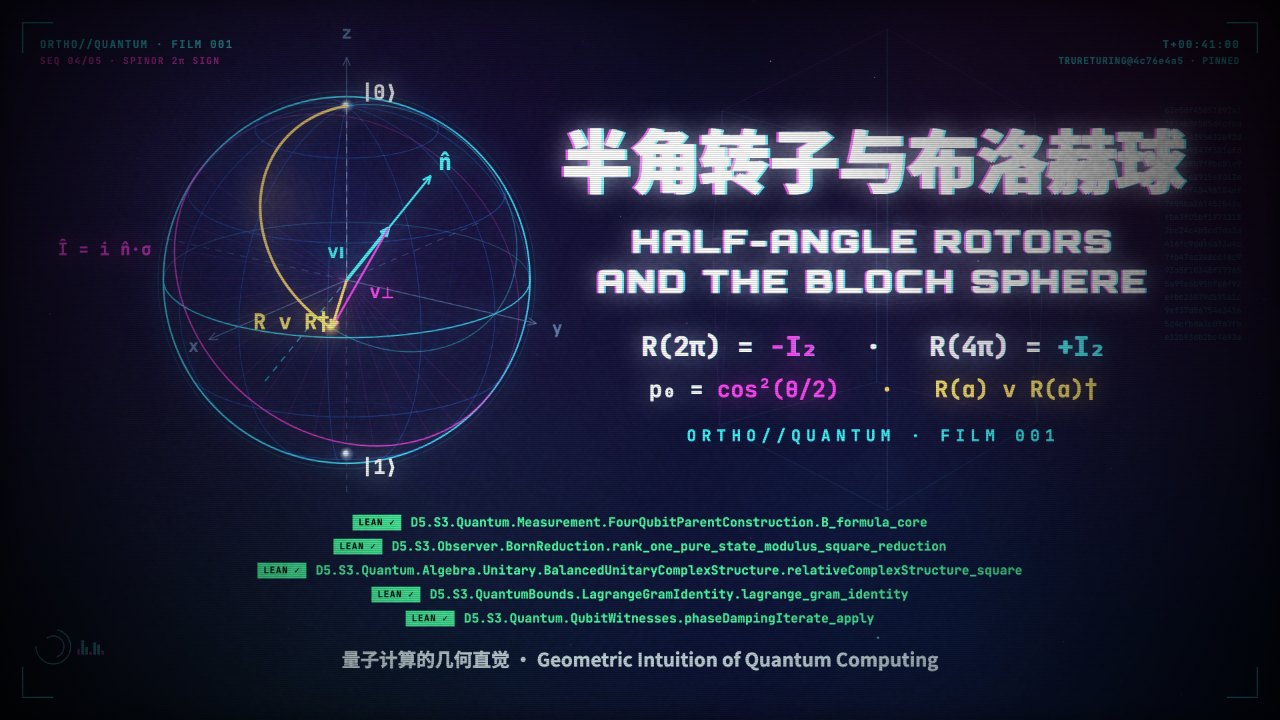
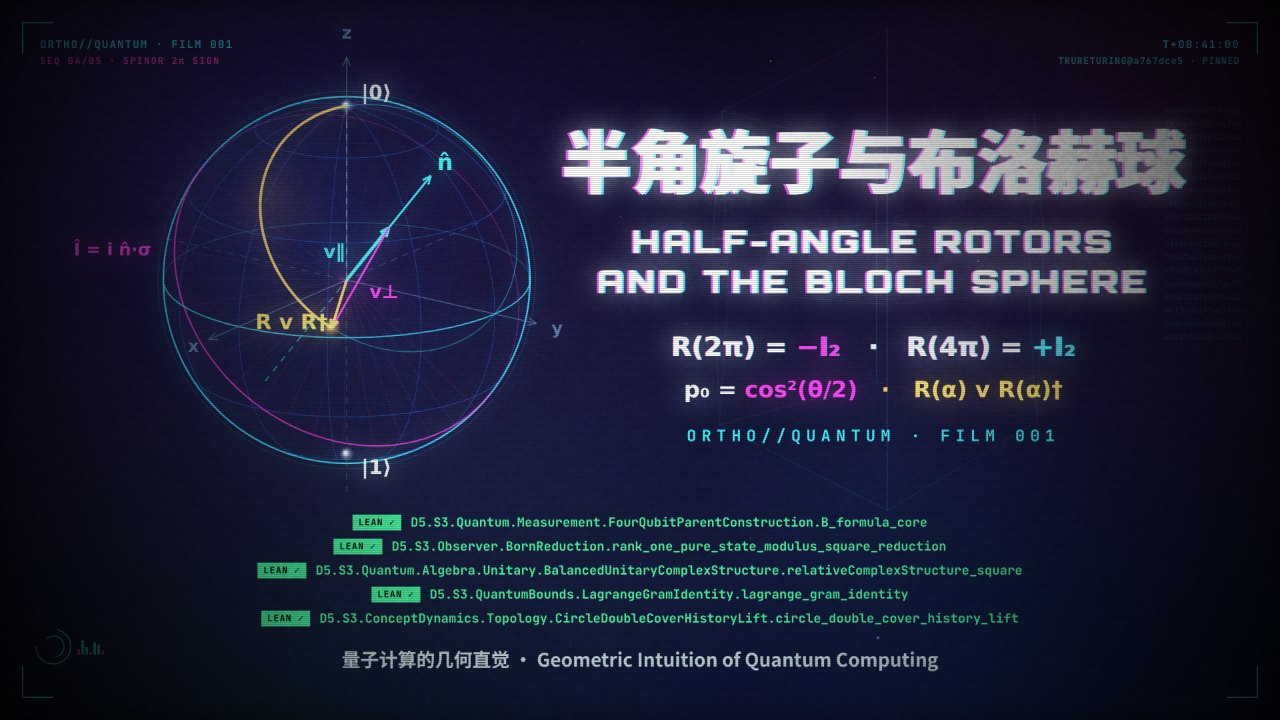
film 001: write rotor as 旋子, drop the phase-damping coda of chapter 4, cite the circle double-cover lift for the sign

diff --git a/books/quantum-geometry/films/001-qubit-bloch-rotor/scenes.js b/books/quantum-geometry/films/001-qubit-bloch-rotor/scenes.js
@@ -1,4 +1,4 @@
-/* Film 001 · Half-Angle Rotors and the Bloch Sphere · 半角转子与布洛赫球 (book quantum-geometry, part II).
+/* Film 001 · Half-Angle Rotors and the Bloch Sphere · 半角旋子与布洛赫球 (book quantum-geometry, part II).
    Scenes for theme/film/engine.js.
 
    Lean citations (film.json "lean", at the pinned trureturing commit) and the four themes of the film:
@@ -17,11 +17,10 @@
           B = ½(1+i) Î, where Î = i n̂·σ, the hypotheses hold and J = −Î: the bivector squares to −I₂ and generates
           the rotor R(α) = cos(α/2) I₂ − Î sin(α/2) = exp(−iα n̂·σ/2). Axis invariance R B(n̂) R† = B(n̂) and the
           full-angle turn of the plane are computed exactly here, not cited.
-     4. Spinor double cover / phase damping
-          R(2π) = −I₂ and R(4π) = +I₂ are computed exactly here, not cited.
-          QubitWitnesses.phaseDampingIterate_apply: phaseDampingIterate c N ρ i j = ρ i j if i = j, else cᴺ · ρ i j,
-          so the Bloch vector goes (x, y, z) ↦ (cᴺx, cᴺy, z); with c = 1 − γ and N = 1 this is
-          ((1 − γ)x, (1 − γ)y, z).
+     4. Spinor double cover ........ CircleDoubleCoverHistoryLift.circle_double_cover_history_lift
+          the fixed-plane case: the squaring map of the circle is a covering, a loop turning once lifts to a path
+          from 1 to −1, and there is no continuous square root on the circle (chapter 5, thm-circle-double-cover-
+          history-lift). R(2π) = −I₂ and R(4π) = +I₂ for the 2×2 rotors are computed exactly here, not cited.
 
    On load, FILM.init checks DATA.lean against these five theorems (present, kind theorem, statement digest) and
    re-derives every identity shown on screen in exact Gaussian-rational 2×2 matrix arithmetic (BigInt fractions)
@@ -98,16 +97,12 @@ const QX = (() => {
     const [ca, sa] = double(co, si);
     return vadd(vadd(vsc(ca, v), vsc(sa, cross(n, v))), vsc(mul(dot(n, v), sub(ONE, ca)), n));
   };
-  /* trureturing QubitWitnesses.phaseDamping: diagonal kept, off-diagonal entries times c */
-  const damp = (cc, A) => [A[0], cmul(re(cc), A[1]), cmul(re(cc), A[2]), A[3]];
-  const dampIter = (cc, N, A) => { for (let k = 0; k < N; k++) A = damp(cc, A); return A; };
-  const pow = (a, N) => { let r = ONE; for (let k = 0; k < N; k++) r = mul(r, a); return r; };
   /* ρ = ½[[1 + z, x − iy], [x + iy, 1 − z]] → (x, y, z) */
   const blochOf = A => [mul(TWO, A[2].re), mul(TWO, A[2].im), sub(A[0].re, A[3].re)];
   return {
     q, add, sub, mul, neg, eq, O, ONE, HALF, TWO, MINUS, c, C0, C1, CI, re, cadd, csub, cmul, cneg, conj, ceq, abs2,
     M, madd, msub, mmul, dag, msc, meq, tr, det, I2, Z2, NEG_I2, SX, SY, SZ, vec, dot, cross, vsc, vadd, vsub, veq,
-    B, Bcore, rho, ket, outer, braket, norm2, biv, rotor, double, rodrigues, damp, dampIter, pow, blochOf
+    B, Bcore, rho, ket, outer, braket, norm2, biv, rotor, double, rodrigues, blochOf
   };
 })();
 
@@ -143,14 +138,13 @@ const QB_LEAN = {
   rank_one_pure_state_modulus_square_reduction: 'D5/S3/Observer/BornReduction.rank_one_pure_state_modulus_square_reduction',
   relativeComplexStructure_square: 'D5/S3/Quantum/Algebra/Unitary/BalancedUnitaryComplexStructure.relativeComplexStructure_square',
   lagrange_gram_identity: 'D5/S3/QuantumBounds/LagrangeGramIdentity.lagrange_gram_identity',
-  phaseDampingIterate_apply: 'D5/S3/Quantum/QubitWitnesses.phaseDampingIterate_apply'
+  circle_double_cover_history_lift: 'D5/S3/ConceptDynamics/Topology/CircleDoubleCoverHistoryLift.circle_double_cover_history_lift'
 };
 /* rational unit vectors (Pythagorean quadruples) [x, y, z, d] and rational half-angles [cos α/2, sin α/2, d] */
 const QB_UNITS = [[1, 2, 2, 3], [2, 3, 6, 7], [1, 4, 8, 9], [2, 6, 9, 11], [4, 4, 7, 9], [2, 10, 11, 15], [0, 3, 4, 5],
   [1, 0, 0, 1], [0, 1, 0, 1], [0, 0, 1, 1], [-2, 1, -2, 3], [6, -2, 3, 7], [-1, -8, 4, 9], [0, 0, -1, 1]];
 const QB_HALVES = [[1, 0, 1], [0, 1, 1], [-1, 0, 1], [3, 4, 5], [4, -3, 5], [5, 12, 13], [-8, 15, 17], [7, 24, 25]];
 const QB_AXIS = QF.unit([1, 2, 2]);      // the rotor axis n̂ = (1, 2, 2)/3 of the SANDWICH ROTOR scene
-const QB_GAMMA = 0.3;                    // the phase-damping strength of the SPINOR scene: c = 1 − γ = 0.7
 const QB_STATS = { exact: 0, float: 0 };
 
 FILM.init.push(() => {
@@ -267,20 +261,7 @@ FILM.init.push(() => {
     units.forEach((v, j) => check(X.meq(X.mmul(X.mmul(R2, X.B(v)), X.dag(R2)), X.B(v)), `R(2π) moves v at ${i}, ${j}`));
   });
 
-  /* 8. phase damping: N-fold iterate = entrywise formula (phaseDampingIterate_apply), Bloch (cᴺx, cᴺy, z) */
-  [[0, 1], [1, 4], [3, 10], [1, 2], [1, 1]].forEach(([gn, gd]) => {
-    const cc = X.sub(X.ONE, X.q(gn, gd));
-    units.forEach((v, j) => {
-      const r0 = X.rho(v);
-      for (let N = 0; N <= 4; N++) {
-        const rN = X.dampIter(cc, N, r0), cN = X.pow(cc, N);
-        check(X.meq(rN, [r0[0], X.cmul(X.re(cN), r0[1]), X.cmul(X.re(cN), r0[2]), r0[3]]), `phase damping entries at γ = ${gn}/${gd}, N = ${N}, ${j}`);
-        check(X.veq(X.blochOf(rN), [X.mul(cN, v[0]), X.mul(cN, v[1]), v[2]]), `phase damping Bloch map at γ = ${gn}/${gd}, N = ${N}, ${j}`);
-      }
-    });
-  });
-
-  /* 9. the floating-point rotors the animation draws */
+  /* 8. the floating-point rotors the animation draws */
   const fcheck = (ok, m) => { QB_STATS.float++; if (!ok) fail(m); };
   const axes = [QB_AXIS, [0, 0, 1], QF.unit([2, -1, 2]), QF.unit([-1, 4, 8])];
   const probes = [[0, 0, 1], [1, 0, 0], QF.unit([2, 3, 6]), QF.unit([-1, -8, 4])];
@@ -316,8 +297,6 @@ function qbView(cx, cy, R, yaw, el) {
   V.cx = cx; V.cy = cy; V.R = R;
   return V;
 }
-/* the same view of the sphere squeezed by k in x and y (the image of phase damping) */
-function qbSqueeze(V, k) { const S = p => V([k * p[0], k * p[1], p[2]]); S.cx = V.cx; S.cy = V.cy; S.R = V.R; return S; }
 /* a parametric 3-D curve: front runs bright, back runs faint */
 function qbPath(V, fn, n, col, aF, aB, lw = 2) {
   if (aF <= 0.003 && aB <= 0.003) return;
@@ -656,7 +635,7 @@ SCENES.rotor = S => {
   txt(`α/2 + α/2 = α = ${qbDeg(al)}`, x1, cy + 106, { size: 24, fam: F.mono, w: 700, align: 'center', c: C.mag, a: hf });
   /* the rotor */
   const x = 1010, w = 790, y = 392;
-  panel(x, y, w, 214, sa, C.cyan, 'ROTOR · 转子');
+  panel(x, y, w, 214, sa, C.cyan, 'ROTOR · 旋子');
   qbRich([['R(α) = ', C.white], ['cos(α/2)', C.now], [' I₂ − Î ', C.white], ['sin(α/2)', C.now]], x + 28, y + 80, { size: 32, a: sa });
   txt('= exp(−iα n̂·σ/2)    n̂ = (1, 2, 2)/3', x + 28, y + 124, { size: 24, fam: F.math, w: 700, c: C.white, a: sa * 0.95 });
   const la = a * Q(S, 0, 'half the angle', 0.6);
@@ -707,36 +686,21 @@ function qbDial(cx, cy, r, ang, col, a, marks) {
 SCENES.spinor = S => {
   const u = S.u, a = clamp(u / 0.5) * clamp((S.d - u) / 0.5);
   if (a <= 0) return;
-  badgeQ(S, [[0, null, 'computed'], [2, 'Phase damping', 'lean']]);
-  const al = qbSpinAngle(S), dmp = Q(S, 2, 'Phase damping', 0.7, -0.3), keep = 1 - dmp;
+  badgeQ(S, [[0, null, 'computed']]);
+  const al = qbSpinAngle(S);
   const V = qbView(520, 505, 270, -2.05 + 0.04 * u, 0.32);
-  /* phase damping: iterates N = 0 … 4 of c = 1 − γ, the squeezed image of the sphere */
-  const c = 1 - QB_GAMMA, nf = clamp((u - phraseAt(S, 2, 'shrinks') - 0.1) / 0.55, 0, 4);
-  const N = Math.floor(nf), kN = Math.pow(c, N + ease(nf - N));
-  qbSphere(V, a * (1 - 0.55 * dmp), { poles: true });
-  if (dmp > 0) qbSphere(qbSqueeze(V, kN), a * dmp, { ring: false, axes: false, col: C.mag, eq: C.mag });
+  qbSphere(V, a, { poles: true });
   const ph = QB_SPIN_PH + al, v = QF.sph(QB_SPIN_TH, ph), zc = Math.cos(QB_SPIN_TH), rr = Math.sin(QB_SPIN_TH);
   /* the orbit of v about z and the swept turns */
-  qbPath(V, s => [rr * Math.cos(TAU * s), rr * Math.sin(TAU * s), zc], 96, C.cyan, 0.35 * a * keep, 0.14 * a * keep, 1.6);
+  qbPath(V, s => [rr * Math.cos(TAU * s), rr * Math.sin(TAU * s), zc], 96, C.cyan, 0.35 * a, 0.14 * a, 1.6);
   const sweep = Math.min(al, TAU), extra = Math.max(0, al - TAU);
-  if (sweep > 0.01) qbPath(V, s => [rr * Math.cos(QB_SPIN_PH + sweep * s), rr * Math.sin(QB_SPIN_PH + sweep * s), zc], 96, C.now, 0.8 * a * keep, 0.4 * a * keep, 3.5);
-  if (extra > 0.01) qbPath(V, s => [1.04 * rr * Math.cos(QB_SPIN_PH + extra * s), 1.04 * rr * Math.sin(QB_SPIN_PH + extra * s), zc], 96, C.mag, 0.9 * a * keep, 0.45 * a * keep, 3.5);
-  if (dmp <= 0) qbVec(V, v, C.now, a, { label: 'v' });
-  else {
-    const v0 = QF.sph(QB_SPIN_TH, QB_SPIN_PH + 2 * TAU), pz = V([0, 0, zc]), p0 = V(v0);
-    dashed(p0[0], p0[1], pz[0], pz[1], C.cyan, 0.85 * a * dmp, 2.5);
-    dot(pz[0], pz[1], 9, 'c', a * dmp);
-    for (let k = 0; k <= N; k++) {
-      const pk = V([Math.pow(c, k) * v0[0], Math.pow(c, k) * v0[1], zc]);
-      dot(pk[0], pk[1], k === N ? 13 : 9, k === N ? 'g' : 'c', a * dmp);
-      txt(String(k), pk[0], pk[1] - 18, { size: 18, fam: F.mono, w: 700, align: 'center', c: C.cyan, a: a * dmp * 0.9 });
-    }
-    qbVec(V, [kN * v0[0], kN * v0[1], zc], C.now, a * dmp, { label: 'r', tip: false });
-  }
+  if (sweep > 0.01) qbPath(V, s => [rr * Math.cos(QB_SPIN_PH + sweep * s), rr * Math.sin(QB_SPIN_PH + sweep * s), zc], 96, C.now, 0.8 * a, 0.4 * a, 3.5);
+  if (extra > 0.01) qbPath(V, s => [1.04 * rr * Math.cos(QB_SPIN_PH + extra * s), 1.04 * rr * Math.sin(QB_SPIN_PH + extra * s), zc], 96, C.mag, 0.9 * a, 0.45 * a, 3.5);
+  qbVec(V, v, C.now, a, { label: 'v' });
   const turns = al / TAU;
-  txt(`α = ${qbDeg(al, 0)}   ·   ${turns.toFixed(2)} turns`, 520, 860, { size: 24, fam: F.mono, w: 700, align: 'center', c: C.now, a: a * keep });
+  txt(`α = ${qbDeg(al, 0)}   ·   ${turns.toFixed(2)} turns`, 520, 860, { size: 24, fam: F.mono, w: 700, align: 'center', c: C.now, a });
   /* dials and the rotor matrix */
-  const da = a * keep * at(S, 0, 0.6, -0.2);
+  const da = a * at(S, 0, 0.6, -0.2);
   if (da > 0) {
     txt('ROTOR · R(α) PHASE α/2', 1170, 205, { size: 20, fam: F.mono, w: 700, align: 'center', c: C.now, a: da, ls: 2 });
     txt('BLOCH VECTOR · α', 1600, 205, { size: 20, fam: F.mono, w: 700, align: 'center', c: C.cyan, a: da, ls: 2 });
@@ -752,27 +716,10 @@ SCENES.spinor = S => {
     qbRich([['R(4π) = ', C.white], ['+I₂', C.cyan]], 1170, 596, { size: 40, align: 'center', a: m2 * da, ab: 2 });
     stamp('SIGN FLIP', 1610, 588, m1 * da, C.mag, 34, -0.06);
     stamp('BACK TO +1', 1610, 588, m2 * da, C.cyan, 34, -0.06);
-  }
-  /* phase damping panel */
-  const pa = a * dmp;
-  if (pa > 0) {
-    const x = 1010, y = 180, w = 790;
-    panel(x, y, w, 656, pa, C.cyan, 'PHASE DAMPING · 相位阻尼');
-    txt('phaseDampingIterate c N ρ i j', x + 28, y + 82, { size: 24, fam: F.mono, w: 700, c: C.white, a: pa });
-    txt('  = if i = j then ρ i j else cᴺ · ρ i j', x + 28, y + 120, { size: 24, fam: F.mono, w: 700, c: C.white, a: pa });
-    qbLean(x + 28, y + 170, 'phaseDampingIterate_apply', pa, { size: 20 });
-    txt('ρ = ½', x + 28, y + 262, { size: 30, fam: F.math, w: 700, c: C.white, a: pa });
-    qbMat(x + 130, y + 250, [['1 + z', 'cᴺ (x − iy)'], ['cᴺ (x + iy)', '1 − z']], pa, { size: 26, cw: 220, cols: [[C.cyan, C.mag], [C.mag, C.cyan]] });
-    txt('c = 1 − γ,  N = 1:', x + 28, y + 382, { size: 24, fam: F.math, w: 700, c: C.white, a: pa });
-    txt('(x, y, z) ↦ ((1 − γ)x, (1 − γ)y, z)', x + 28, y + 428, { size: 30, fam: F.math, w: 700, c: C.now, a: pa, ab: 1 });
-    qbNumTag(x + w - 110, y + 25, pa);
-    txt(`γ = ${QB_GAMMA.toFixed(1)}  ·  c = ${c.toFixed(1)}  ·  iterates N = 0 … 4`, x + 28, y + 474, { size: 21, fam: F.mono, w: 700, c: C.dim, a: pa });
-    const v0 = QF.sph(QB_SPIN_TH, QB_SPIN_PH + 2 * TAU);
-    for (let k = 0; k <= 4; k++) {
-      const ck = Math.pow(c, k), on = k === N, ya = y + 516 + k * 31, ra = pa * (k <= N ? 1 : 0.3);
-      txt(`N = ${k}   cᴺ = ${ck.toFixed(4)}   r = (${qbNum(ck * v0[0], 3)}, ${qbNum(ck * v0[1], 3)}, ${qbNum(zc, 3)})`, x + 28, ya,
-        { size: 21, fam: F.mono, w: 700, c: on ? C.now : C.white, a: ra });
-    }
+    /* the matrices are computed; the theorem behind the sign is the fixed-plane circle case */
+    const la = da * Q(S, 0, 'minus one', 0.6, 0.4);
+    qbLean(1010, 830, 'circle_double_cover_history_lift', la, { size: 18 });
+    txt('fixed-plane case · 固定平面情形', 1010, 866, { size: 18, fam: F.zh, w: 700, c: C.dim, a: la });
   }
 };
 
